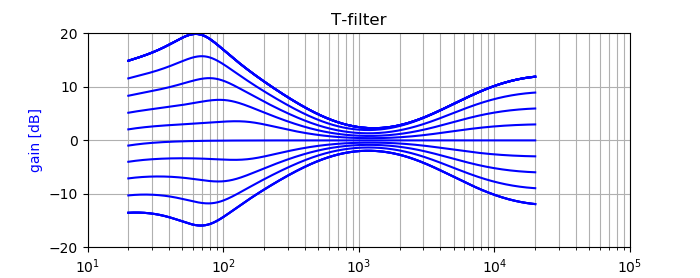
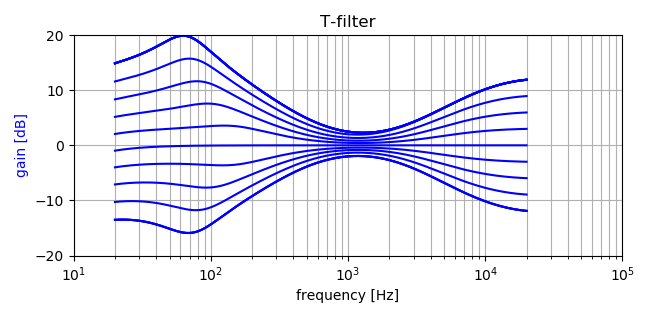
Docs

diff --git a/tools/TDA8425_pseudo.py b/tools/TDA8425_pseudo.py
@@ -27,6 +27,7 @@ def spprint(name, symbol, plain=False):
 
 init_printing(use_latex='mathjax')
 
+PLOT_MAGNITUDE = False
 
 #%%
 
@@ -72,20 +73,24 @@ r2 = 15000
 dtype = np.float64
 
 f = np.logspace(np.log10(10), np.log10(20000))
-fig, ax1 = plt.subplots()
-plt.title(f'Pseudo-stereo: R1 {r1} Ω & R2 {r2} Ω')
+fig, ax1 = plt.subplots(figsize=(3.7, 3.6))
+plt.title('Pseudo-stereo')
 plt.xscale('log')
 plt.xlabel('frequency [Hz]')
+plt.grid(True, which='both')
 
 ax1.set_xlim(10**1, 10**5)
-ax1.set_ylim(-20, 20)
-ax1.set_ylabel('gain [dB]', color='b')
+ax1.set_ylim(-400, 0)
+ax1.set_ylabel('phase [°]', color='g')
 ax1.grid(True, which='both')
 
-ax2 = ax1.twinx()
-ax2.set_ylim(-400, 0)
-ax2.set_ylabel('phase [°]', color='g')
-ax2.grid(True, which='both')
+if PLOT_MAGNITUDE:
+    ax2 = ax1.twinx()
+    ax2.set_ylim(-20, 20)
+    ax2.set_ylabel('gain [dB]', color='b')
+    ax2.grid(True, which='both')
+
+plt.tight_layout()
 
 #%%
 
@@ -102,32 +107,37 @@ for i, (c1, c2) in enumerate(caps):
     bk = np.array([x.subs(values) for x in b], dtype=dtype)
     x, y = freqz(bk, a=ak, worN=f, fs=Fs)
 
-    # mags = 20*np.log10(np.abs(y))
-    # ax1.plot(x, mags)
-
     angles = np.unwrap(np.angle(y)) * (180/np.pi)
-    ax2.plot(x, angles, label=f'{i+1}')
+    ax1.plot(x, angles, label=f'Preset {i+1}')
+
+    if PLOT_MAGNITUDE:
+        mags = 20*np.log10(np.abs(y))
+        ax2.plot(x, mags)
 
 #%%
 
 if 0:  # PCem
+    # Note: A and B coefficients are swapped in PCem source code
     ak = np.array([
         +1.00000000000000000000,
         -1.98733021473466760000,
         +0.98738361004063568000,
     ], dtype=dtype)
+
     bk = np.array([
         +0.00001409030866231767,
         +0.00002818061732463533,
         +0.00001409030866231767,
     ], dtype=dtype)
-    x, y = freqz(bk, a=ak, worN=f, fs=Fs)
 
-    # mags = 20*np.log10(np.abs(y))
-    # ax1.plot(x, mags)
+    x, y = freqz(bk, a=ak, worN=f, fs=Fs)
 
     angles = np.unwrap(np.angle(y)) * (180/np.pi)
     ax2.plot(x, angles, label=f'PCem')
+
+    if PLOT_MAGNITUDE:
+        mags = 20*np.log10(np.abs(y))
+        ax1.plot(x, mags)
 
 #%%
 

diff --git a/tools/TDA8425_shelving.py b/tools/TDA8425_shelving.py
@@ -131,7 +131,7 @@ dbt = [
 
 f = np.logspace(np.log10(20), np.log10(20000), 100)
 plt.close('all')
-fig, ax1 = plt.subplots(figsize=(7, 2.8))
+fig, ax1 = plt.subplots(figsize=(6.5, 3.2))
 plt.title('Tone control')
 plt.xscale('log')
 plt.xlabel('frequency [Hz]')
@@ -145,6 +145,8 @@ if PLOT_PHASE:
     ax2 = ax1.twinx()
     ax2.set_ylim(-90, 90)
     ax2.set_ylabel('phase [°]', color='g')
+
+plt.tight_layout()
 
 #%%
 

diff --git a/tools/TDA8425_tfilter.py b/tools/TDA8425_tfilter.py
@@ -185,7 +185,7 @@ plt.show()
 
 #%%
 
-fig, ax1 = plt.subplots(figsize=(7, 2.8))
+fig, ax1 = plt.subplots(figsize=(6.5, 3.2))
 plt.title('T-filter')
 plt.xscale('log')
 plt.xlabel('frequency [Hz]')
@@ -199,6 +199,8 @@ if PLOT_PHASE:
     ax2 = ax1.twinx()
     ax2.set_ylim(-60, 60)
     ax2.set_ylabel('phase [°]', color='g')
+
+plt.tight_layout()
 
 for i in range(16):
     values = {
